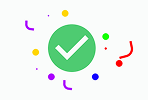
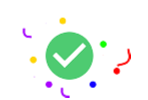
changes

diff --git a/resources/views/website/pages/experience-avatr.blade.php b/resources/views/website/pages/experience-avatr.blade.php
@@ -15,7 +15,7 @@
                             <div class="column">
                                 @if (session('page') == 'thank-you')
                                     <div class="thank-you-msg">
-                                        <img src="{{ asset('website/images/thank-you-2.png') }}" alt="">
+                                        <img src="{{ asset('website/images/thank-you.png') }}" alt="">
                                         <h3 class="text-white">Thanks for your Interest</h3>
                                         <p class="text-white">
                                             We have received your message. We will get back to you shortly.
